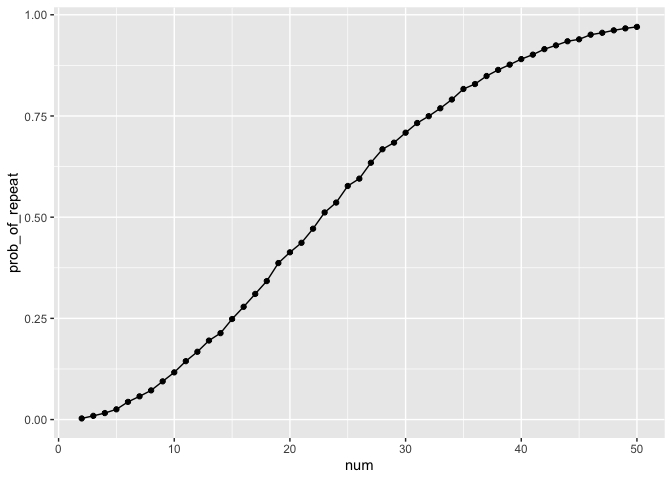
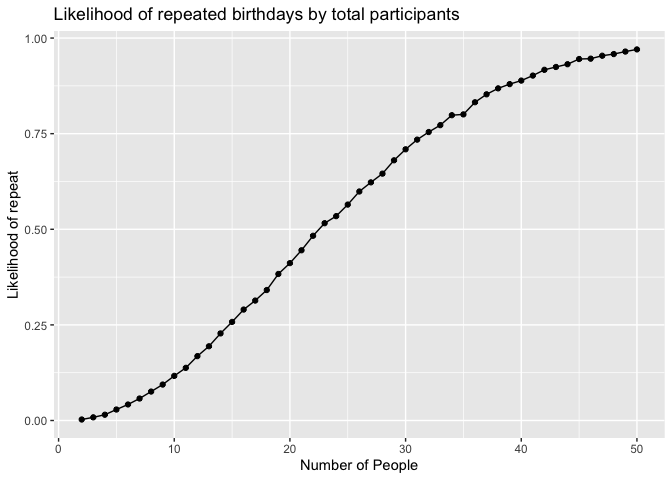
Final Draft

diff --git a/p8105_hw5_fs2968.md b/p8105_hw5_fs2968.md
@@ -19,12 +19,16 @@ library(tidyverse)
     ## ✖ dplyr::lag()    masks stats::lag()
     ## ℹ Use the conflicted package (<http://conflicted.r-lib.org/>) to force all conflicts to become errors
 
+``` r
+set.seed(1)
+```
+
 # Problem 1
 
 First, we need to create our function that takes n people in a room,
-randomly randomly draws “birthdays” for each person, checks whether
-there are duplicate birthdays in the group, and returns TRUE or FALSE
-based on the result.
+randomly draws “birthdays” for each person, checks whether there are
+duplicate birthdays in the group, and returns TRUE or FALSE based on the
+result.
 
 ``` r
 #Create our function that takes n
@@ -57,7 +61,12 @@ birthday_result |>
   summarize(prob_of_repeat = mean(repeated)) |> 
   ggplot(aes(x = num, y =prob_of_repeat)) + 
   geom_point()+
-  geom_line()
+  geom_line() + 
+  labs(
+    title = "Likelihood of repeated birthdays by total participants",
+    x = "Number of People",
+    y = "Likelihood of repeat"
+  ) 
 ```
 
 ![](p8105_hw5_fs2968_files/figure-gfm/unnamed-chunk-3-1.png)<!-- -->
@@ -122,15 +131,11 @@ df |>
   labs(
     title = "Longitudinal Observations for Control group by week",
     x = "Week",
-    y = "Observation Value",
-    color = "Study Arm"
+    y = "Observation Value"
   ) +
   theme_minimal() +
   theme(legend.position = "right")
 ```
-
-    ## Ignoring unknown labels:
-    ## • colour : "Study Arm"
 
 ![](p8105_hw5_fs2968_files/figure-gfm/unnamed-chunk-5-1.png)<!-- -->
 
@@ -143,15 +148,11 @@ df |>
   labs(
     title = "Longitudinal Observations for Experimental group by week",
     x = "Week",
-    y = "Observation Value",
-    color = "Study Arm"
+    y = "Observation Value"
   ) +
   theme_minimal() +
   theme(legend.position = "right")
 ```
-
-    ## Ignoring unknown labels:
-    ## • colour : "Study Arm"
 
 ![](p8105_hw5_fs2968_files/figure-gfm/unnamed-chunk-5-2.png)<!-- -->
 
@@ -159,7 +160,127 @@ In the plots above comparing the observations over weeks between the
 control arm and the experimental arm, we can see that the control arm
 observations have no significant increase or decrease over the 8 weeks,
 with the final week of observation having a similar distribution/spread
-to the intial observations with the difference between week 1 and week 8
-at -0.175 on average. However, in the experimental arm, we see a gradual
-increase in observation over time, with the difference between week 1
-and week 8 observations at 3.978 on average.
+to the initial observations with the difference between week 1 and week
+8 at -0.175 on average. However, in the experimental arm, we see a
+gradual increase in observation over time, with the difference between
+week 1 and week 8 observations at 3.978 on average.
+
+# Problem 3
+
+Since we are looking to repeat our normal sampling several times, we
+define a function that will do the 5,000 repeated samples for us.
+
+``` r
+#Set Parameters
+n = 30
+sigma = 5
+
+#Create our function
+norm_samp = function(n, sigma, mu) {
+  #Create a list for our results
+  output = vector("list", 5000)
+  #Iterate through 5,000 samples 
+  for (i in 1:5000) {
+    x = rnorm(n, mu, sigma)
+    output[[i]] = broom::tidy(t.test(x, conf.level = 0.95))
+  }
+  output = bind_rows(output)
+  return(output)
+}
+
+#Simulate when mean is 0
+zero_mean_samp = norm_samp(n, sigma, 0)
+```
+
+Now we can repeat this sampling for mean set to 1,2,3,4,5,6, seeing how
+the p.value changes as we change the mean.
+
+``` r
+# repeat for mean 1,2,3,4,5,6
+
+sample_df = tibble(
+  true_mean = c(0,1,2,3,4,5,6),
+  statistics = map(true_mean, \(mu) norm_samp(n, sigma, mu))
+  ) 
+```
+
+Now that we’ve generated our data for each true mean, we can make a plot
+showing the proportion of times the null was rejected compared to the
+true mean that was set.
+
+``` r
+sim_summary = 
+  sample_df |> 
+  unnest(statistics) |> 
+  group_by(true_mean) |> 
+  summarize(
+    avg_estimate_all = mean(estimate),
+    avg_estimate_rejected = mean(estimate[p.value < 0.05]),
+    power = mean(p.value < 0.05)
+  )
+
+sim_summary |> 
+  ggplot(aes(x = true_mean, y = power)) + 
+  geom_point(size = 2) + 
+  labs(
+    title = "Sample Power by true mean ",
+    x = "True Mean",
+    y = "Power"
+  ) 
+```
+
+![](p8105_hw5_fs2968_files/figure-gfm/unnamed-chunk-8-1.png)<!-- -->
+
+As we can see in the plot, there is a positive association between the
+true mean and power. This means that as the true mean increases, the
+likelihood of a correctly rejecting the null hypothesis increases. This
+makes sense as the true mean moves further away from our null hypothesis
+of mean is zero, the more likely we are to find statistically
+significant samples where the sample mean differs from the null
+hypothesis and thus decreasing the type 2 error (false rejections).
+
+Now we can make a plot showing the average estimate of mu between true
+means. Then the following plot will be the average estimates only when
+the null hypothesis is rejected.
+
+``` r
+sim_summary |> 
+  ggplot(aes(x = true_mean, y = avg_estimate_all)) + 
+  geom_point(size = 2) + 
+  geom_abline(slope = 1, intercept = 0, linetype = "dashed") +
+  labs(
+    title = "Sample Mean Estimate by true mean ",
+    x = "True Mean",
+    y = "Sample Mean Estimate"
+  ) 
+```
+
+![](p8105_hw5_fs2968_files/figure-gfm/unnamed-chunk-9-1.png)<!-- -->
+
+``` r
+sim_summary |> 
+  ggplot(aes(x = true_mean, y = avg_estimate_rejected)) + 
+  geom_point(size = 2) + 
+  geom_abline(slope = 1, intercept = 0, linetype = "dashed") +
+  labs(
+    title = "Sample Mean Estimate by true mean for null rejected samples",
+    x = "True Mean",
+    y = "Sample Mean Estimate"
+  ) 
+```
+
+![](p8105_hw5_fs2968_files/figure-gfm/unnamed-chunk-9-2.png)<!-- -->
+
+As we can see in the plots, the graph for the sample mean estimate in
+all samples is nearly identical to the true mean, while in the plot for
+only the null rejected samples, we can see that the estimated
+mean/sample mean is slightly higher than the true mean for true mean
+1,2,3, and then is equal to the true mean at 4,5, and 6. This is because
+for the lower true means, our samples are more likely to have sample
+means that are further away from the null hypothesis since these are the
+statistically significant samples where we reject the null, which is set
+at 0. Samples that have a mean closer to 0 may not be rejected, and thus
+not included in this filtered dataset. That is until we reach a true
+mean value where the sample mean is on average already far enough away
+from the null so that most sampels will reject the null hypothesis and
+therefore average the sample mean.
